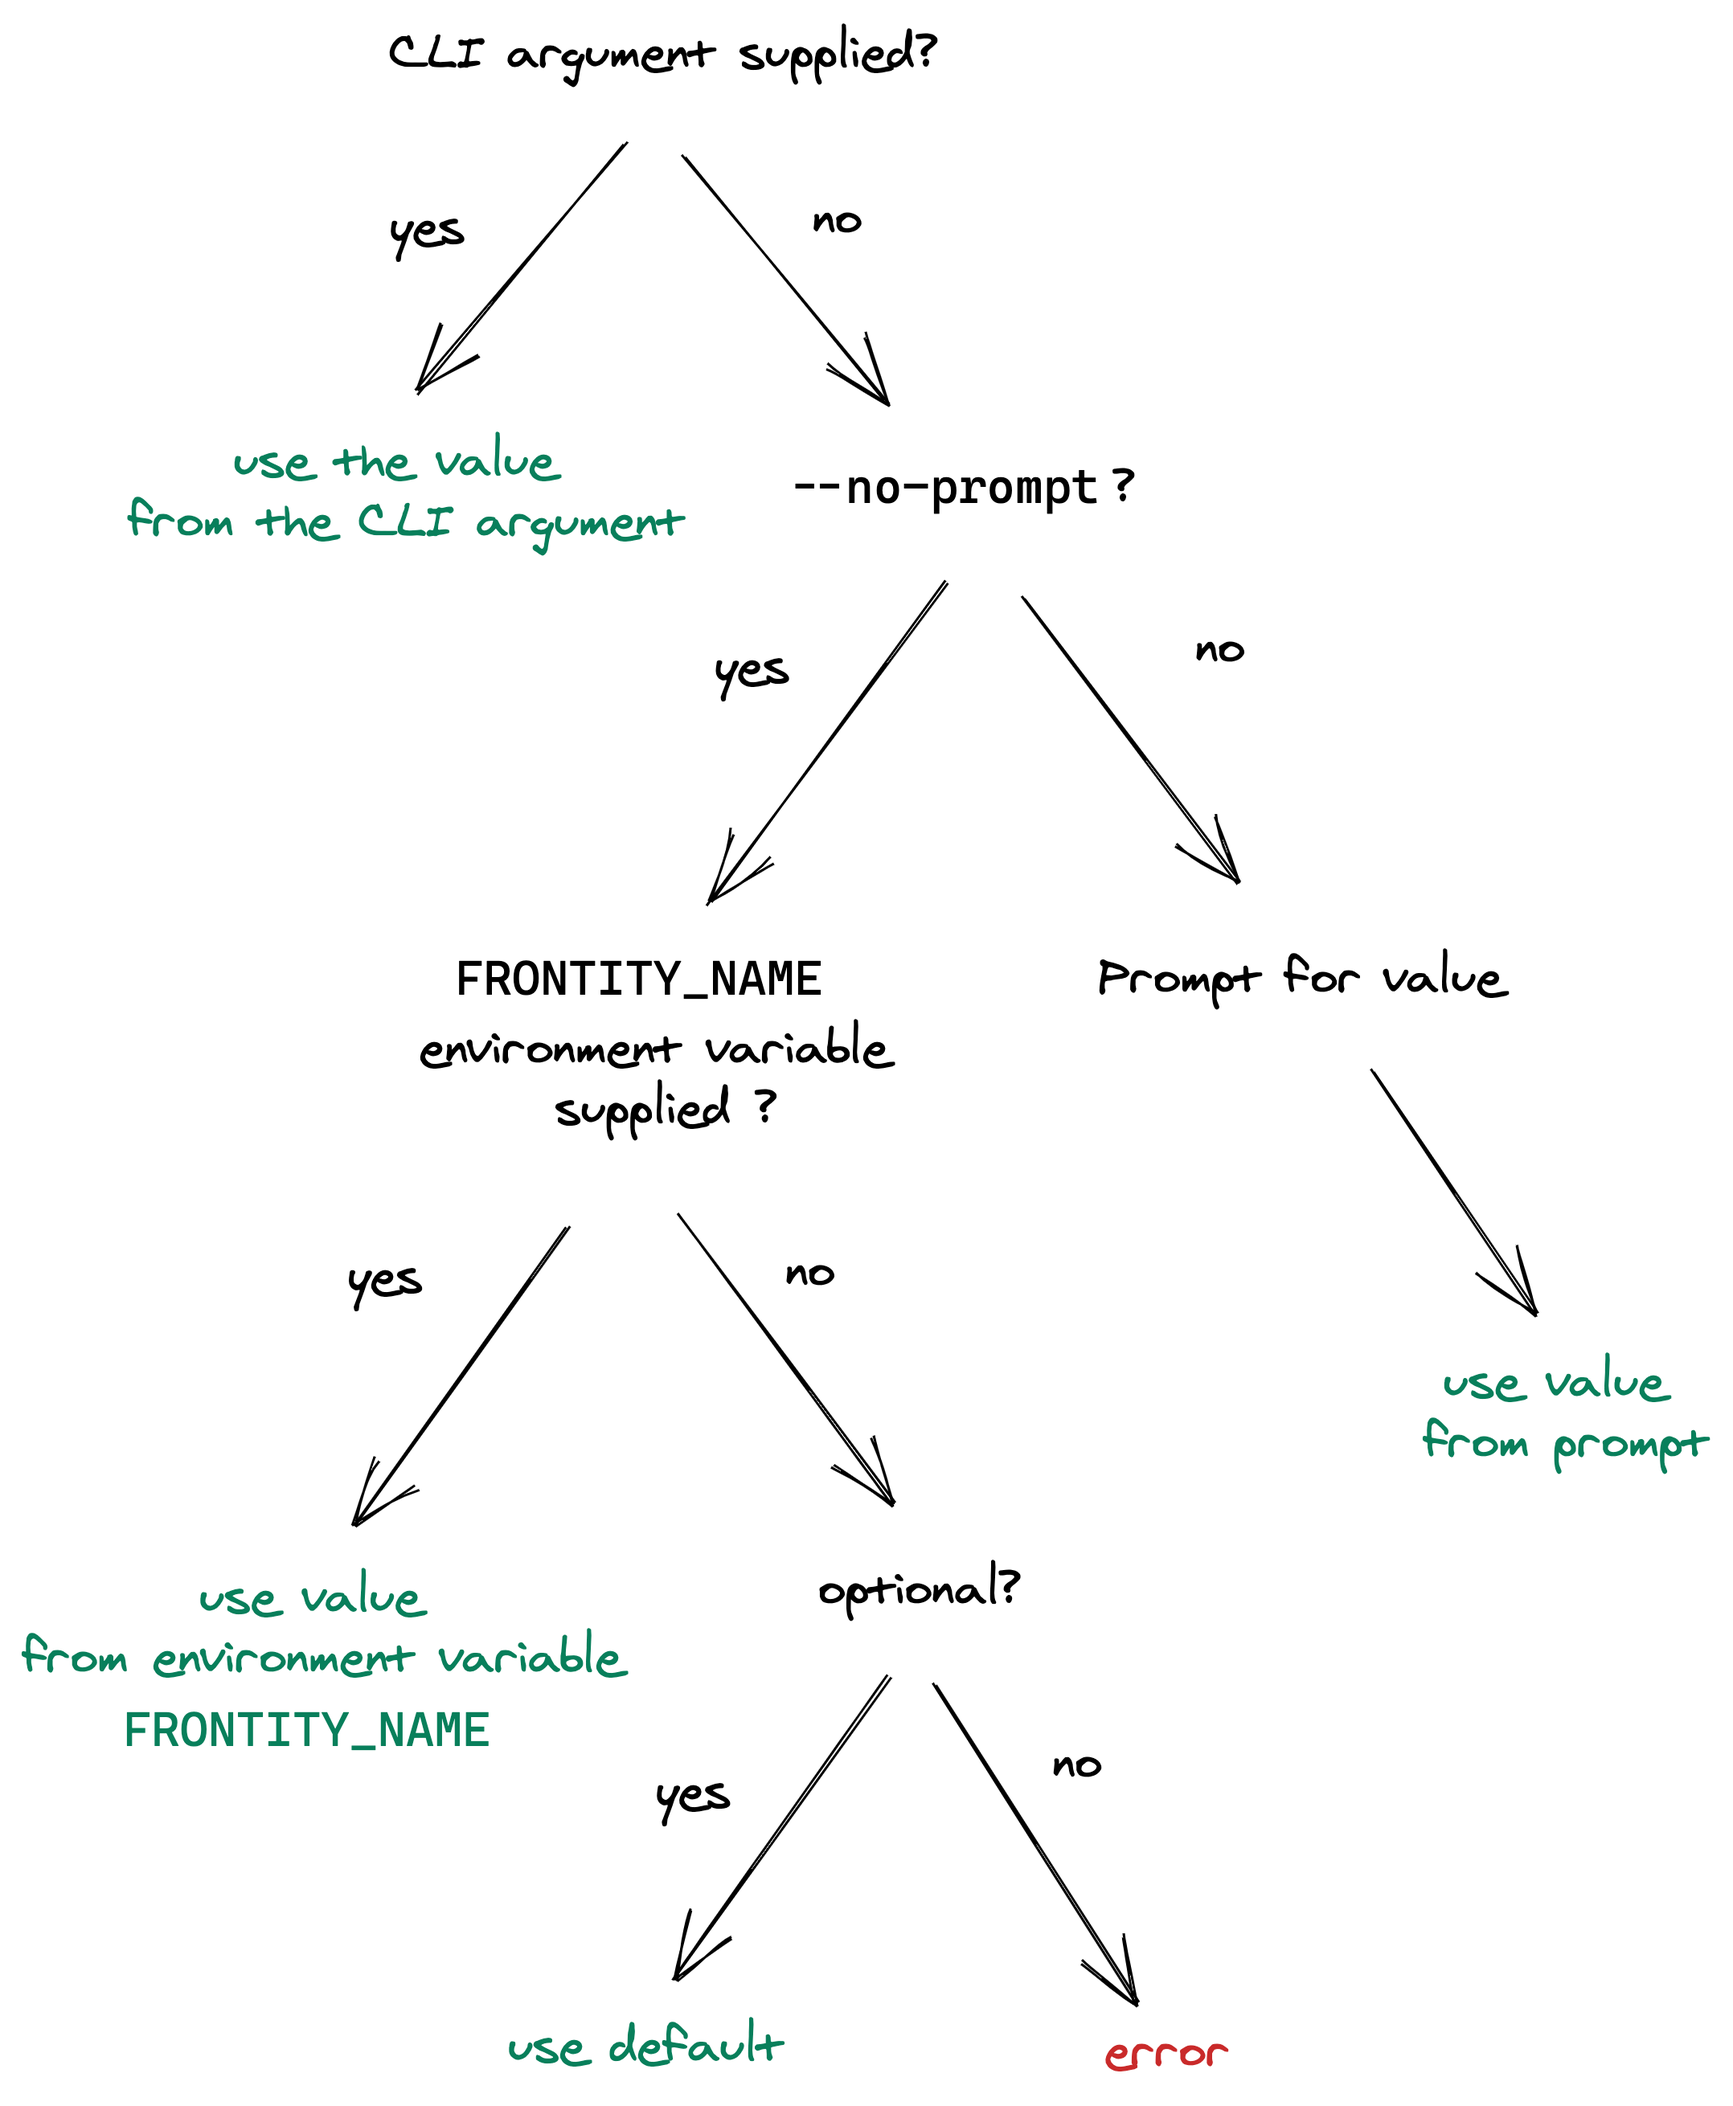
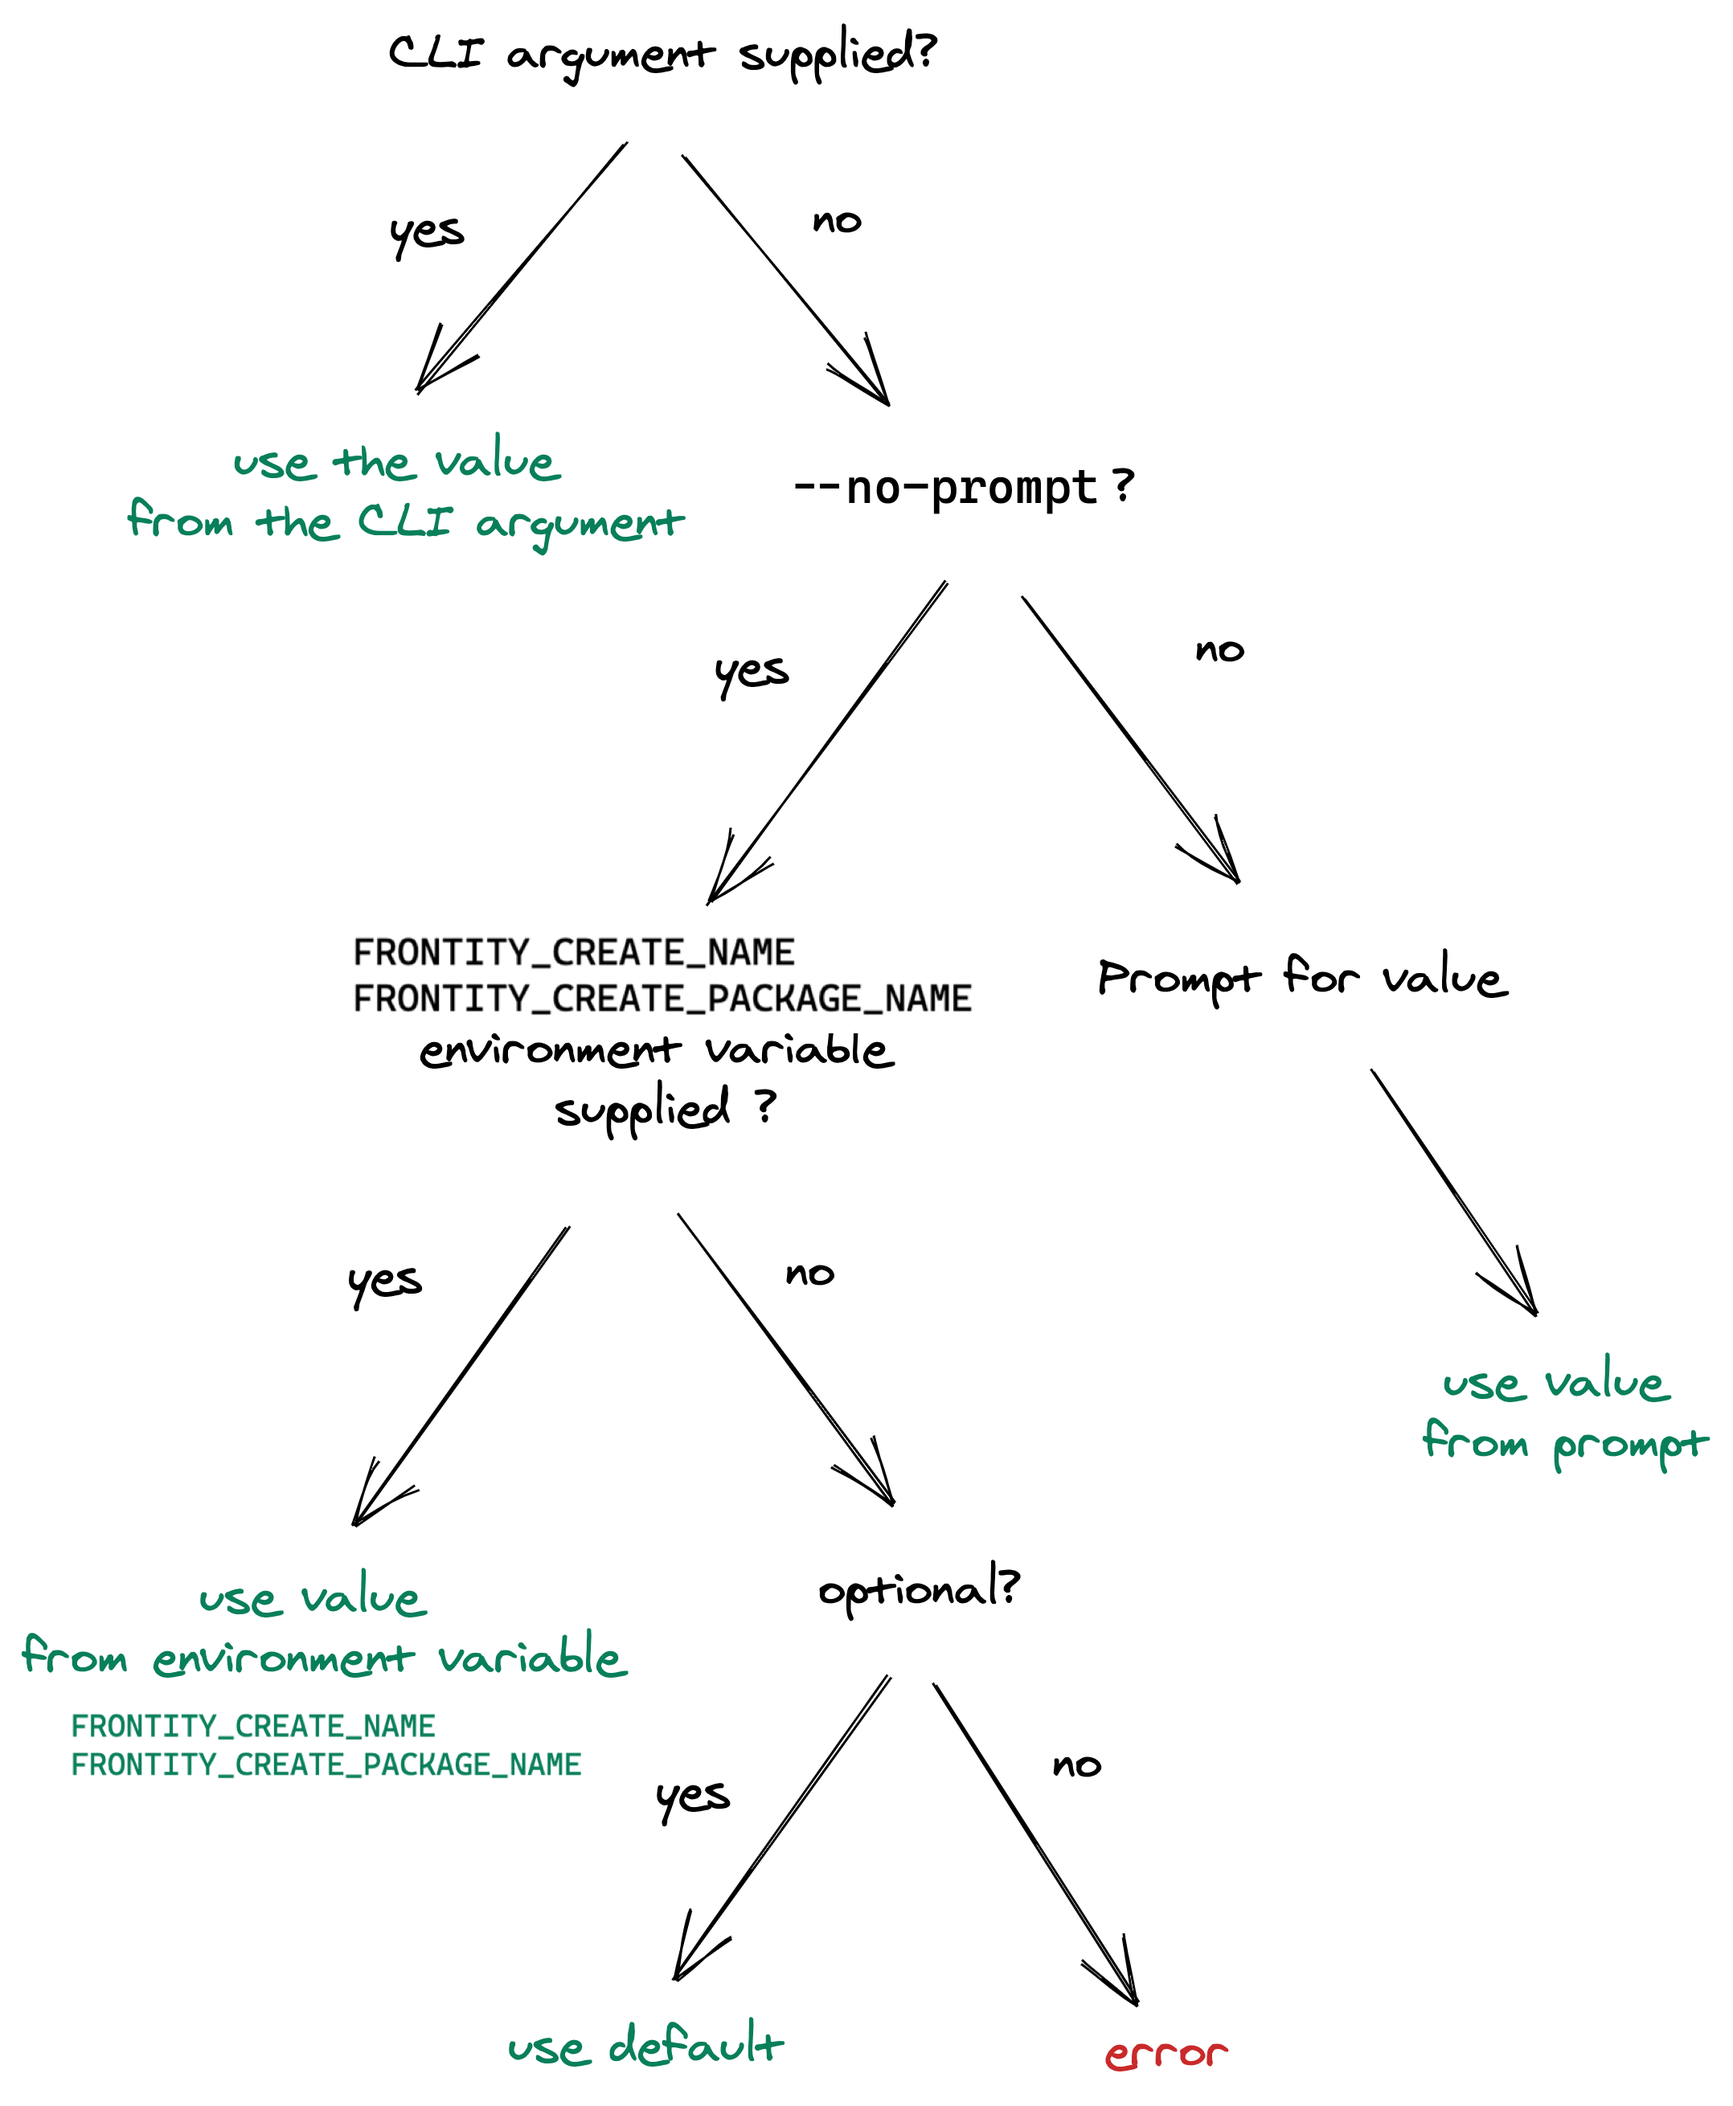
updated info as per latest status of environment variables

Changed region(s): [[0.2175, 0.4327, 0.5594, 0.4945], [0.0311, 0.8035, 0.3418, 0.8653]]

diff --git a/docs-api/frontity-cli/create-commands/create.md b/docs-api/frontity-cli/create-commands/create.md
@@ -17,9 +17,9 @@ The _name_ of your Frontity project. It will also be the name of the folder that
 |                  Option                  | Description                                                                                                     |
 | :--------------------------------------: | :-------------------------------------------------------------------------------------------------------------- |
 |  [`--theme <theme>`](#the-theme-option)  | The theme to use                                                                                                |
-|              `--typescript`              | Adds support for TypeScript                                                                                     |
+|              `--typescript`              | Adds support for TypeScript. Related environment variable: [`FRONTITY_CREATE_TYPESCRIPT`](README.md#frontity_create_typescript).                                                                                     |
 |               `--use-cwd`                | Generates the project in the current directory                                                                  |
-| [`--no-prompt`](README.md#frontity_name) | Skips prompting the user for options. Related environment variable: [`FRONTITY_NAME`](README.md#frontity_name). |
+| `--no-prompt` | Skips prompting the user for options. Related environment variable: [`FRONTITY_CREATE_NAME`](README.md#frontity_create_name). |
 |                 `--help`                 | Output usage information                                                                                        |
 
 #### The `--theme` option
@@ -65,4 +65,33 @@ Run cd awesome project && npx frontity dev and have fun! 🎉
 
 You can find docs at https://docs.frontity.org/.
 For technical support and assistance please join our community at https://community.frontity.org/.
+```
+
+## Environment Variables
+
+### `FRONTITY_CREATE_NAME`
+
+If you pass the [`--no-prompt`](../README.md#no-prompt) flag to the [`create`](create.md), the CLI will use the name from this `FRONTITY_CREATE_NAME` environment variable.
+
+If the CLI cannot find a `FRONTITY_CREATE_NAME` environmental variable, it will prompt for the name of the package
+
+_Example:_
+
+```text
+FRONTITY_CREATE_NAME=test-project
+```
+
+{% hint style="info" %}
+You can see a scheme of the whole workflow of using this `FRONTITY_CREATE_NAME` environment variable in the [`--no-prompt`](../README.md#no-prompt) section
+{% endhint %}
+
+
+### `FRONTITY_CREATE_TYPESCRIPT`
+
+Adds support for TypeScript in the project created
+
+_Example:_
+
+```text
+FRONTITY_CREATE_TYPESCRIPT=true
 ```

diff --git a/docs-api/frontity-cli/README.md b/docs-api/frontity-cli/README.md
@@ -59,9 +59,9 @@ There's a **`--no-prompt`** option that can be used along with environment varia
 
 **Example**
 
-If you pass the `--no-prompt` flag to the [`create`](create.md) or [`create-package`](create-package.md), the CLI will use the name from this [`FRONTITY_NAME`](create-commands/README.md#FRONTITY_NAME) environment variable.
+If you pass the `--no-prompt` flag to the [`create`](create.md) or [`create-package`](create-package.md), the CLI will use the name from either [`FRONTITY_CREATE_NAME`](create-commands/create.md#FRONTITY_CREATE_NAME) or [`FRONTITY_CREATE_PACKAGE_NAME`](create-commands/create-package.md#FRONTITY_CREATE_PACKAGE_NAME) environment variables.
 
-If the CLI cannot find a `FRONTITY_NAME` environmental variable, it will prompt for the name of the package
+If the CLI cannot find any of these environmental variables, it will prompt for the name of the package
 
 This is the scheme followed by the CLI to get the name of the package
 

diff --git a/docs-api/frontity-cli/create-commands/create-package.md b/docs-api/frontity-cli/create-commands/create-package.md
@@ -33,3 +33,21 @@ This argument sets the _name_ of your Frontity package. The `create-package` com
 
 New package "my-custom-theme" created.
 ```
+
+## Environment Variables
+
+### `FRONTITY_CREATE_PACKAGE_NAME`
+
+If you pass the [`--no-prompt`](../README.md#no-prompt) flag to the [`create-package`](create-package.md), the CLI will use the name from this `FRONTITY_CREATE_PACKAGE_NAME` environment variable.
+
+If the CLI cannot find a `FRONTITY_CREATE_PACKAGE_NAME` environmental variable, it will prompt for the name of the package
+
+_Example:_
+
+```text
+FRONTITY_CREATE_NAME=test-project
+```
+
+{% hint style="info" %}
+You can see a scheme of the whole workflow of using this `FRONTITY_CREATE_PACKAGE_NAME` environment variable in the [`--no-prompt`](../README.md#no-prompt) section
+{% endhint %}

diff --git a/docs-api/frontity-cli/create-commands/README.md b/docs-api/frontity-cli/create-commands/README.md
@@ -4,15 +4,3 @@ These commands will allow you to either create a Frontity project or a Frontity 
 
 - [`create`](create.md)
 - [`create-package`](create-package.md)
-
-## Environment Variables
-
-### FRONTITY_NAME
-
-If you pass the [`--no-prompt`](../README.md#no-prompt) flag to the [`create`](create.md) or [`create-package`](create-package.md), the CLI will use the name from this `FRONTITY_NAME` environment variable.
-
-If the CLI cannot find a `FRONTITY_NAME` environmental variable, it will prompt for the name of the package
-
-{% hint style="info" %}
-You can see a scheme of the whole workflow of using this `FRONITY_NAME` environment variable in the [`--no-prompt`](../README.md#no-prompt) section
-{% endhint %}
